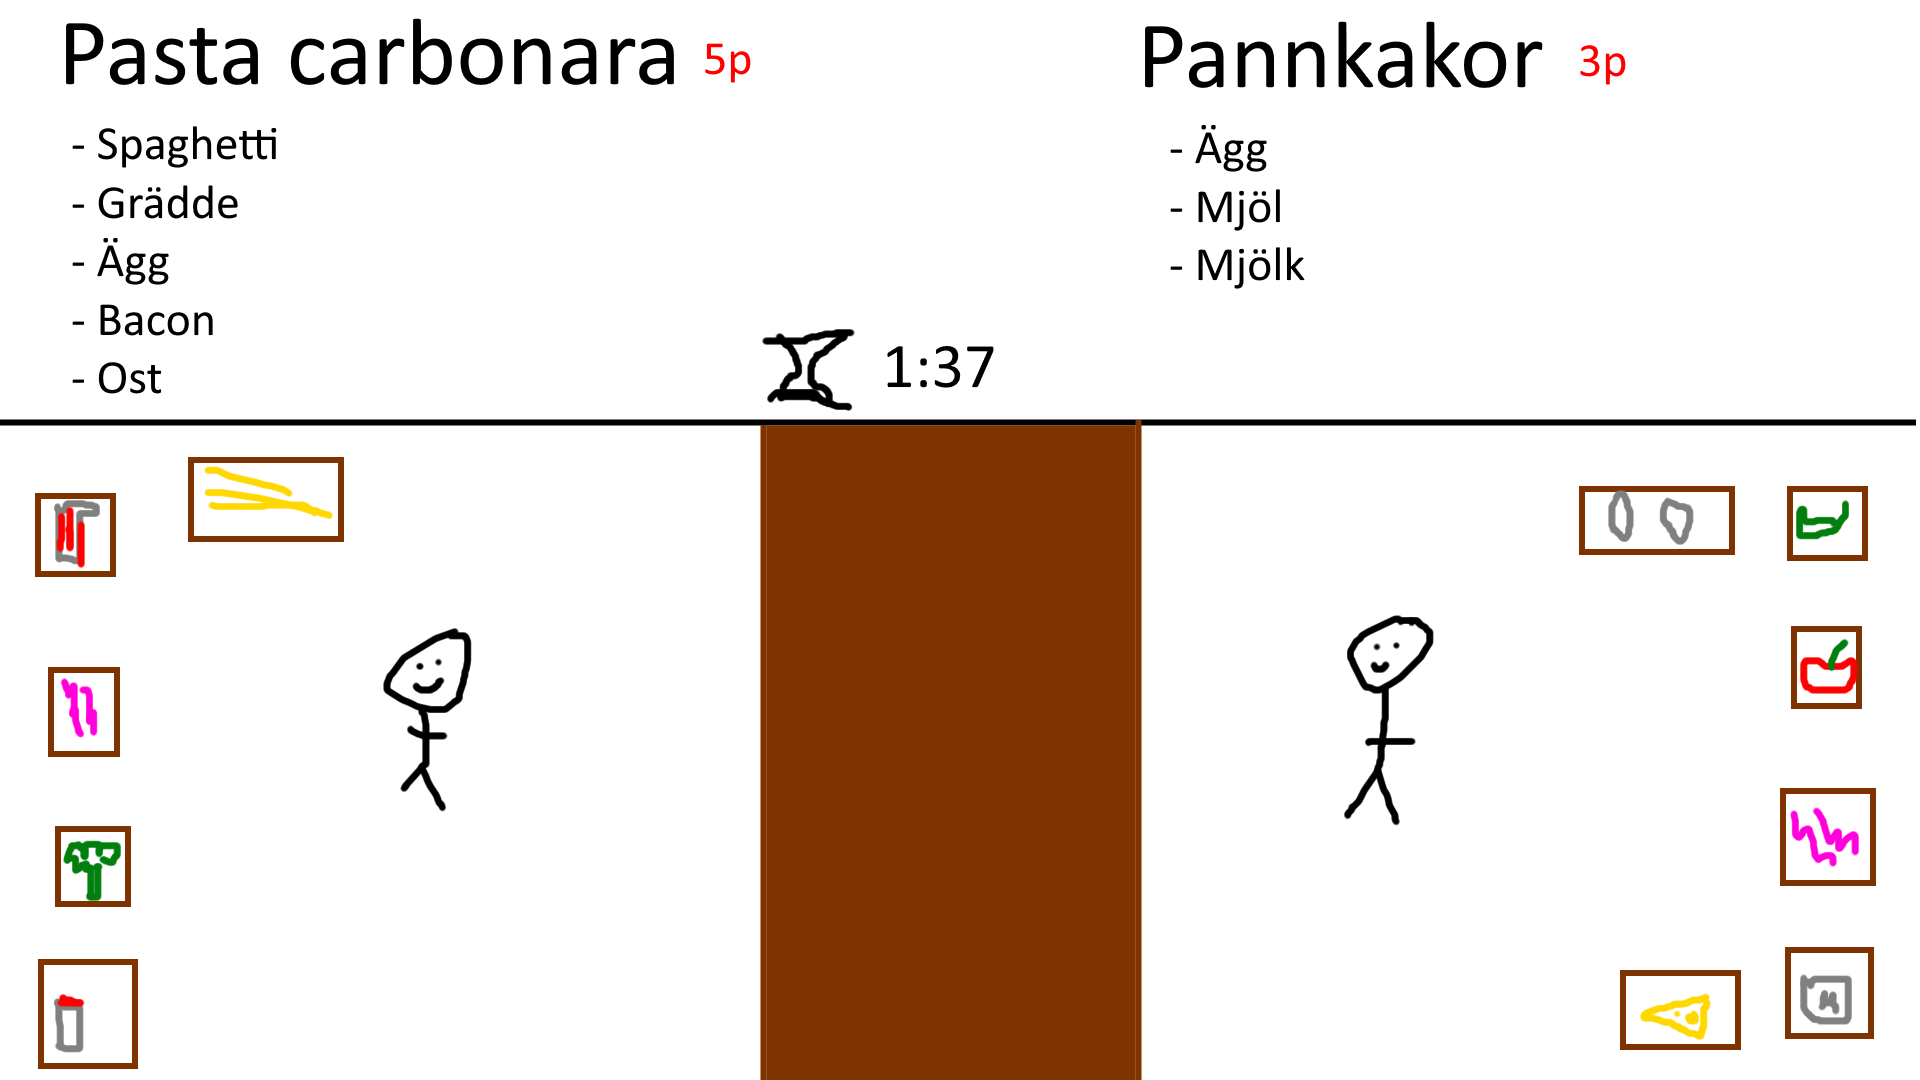
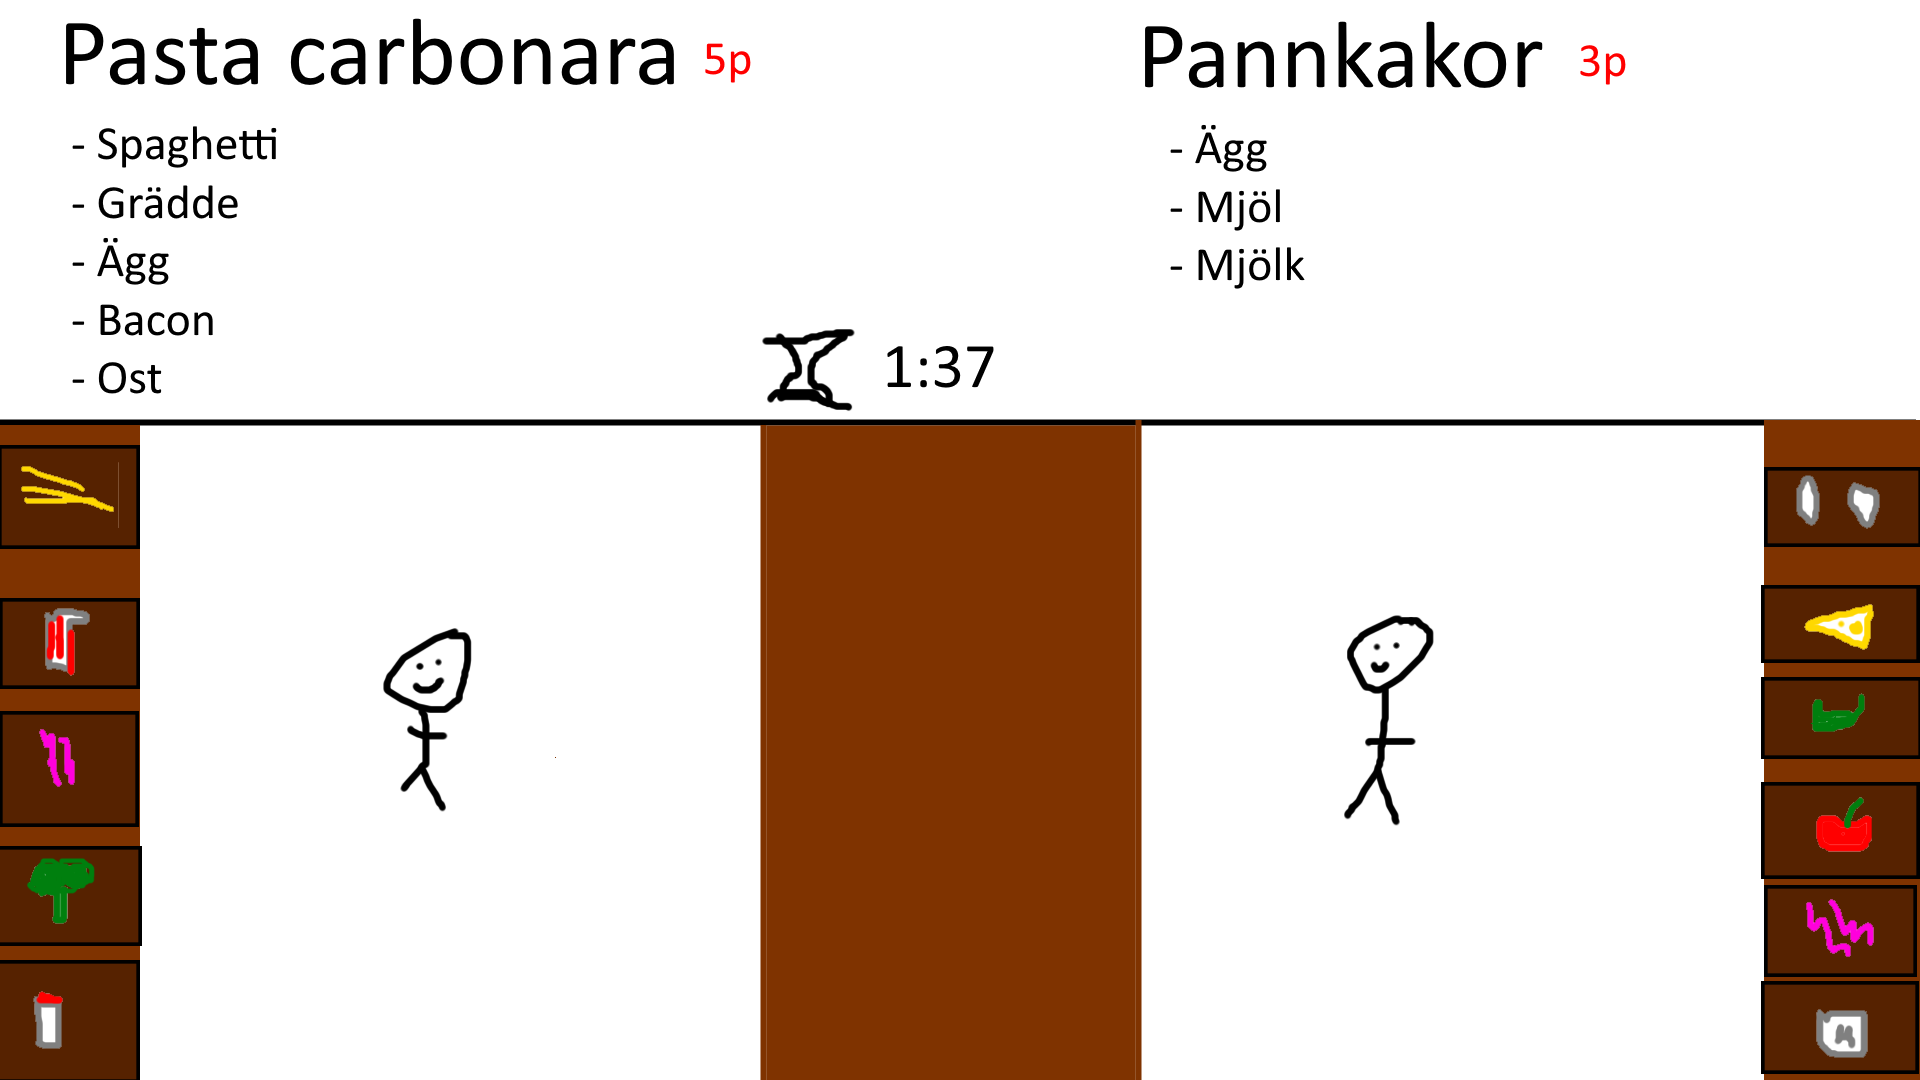
Added recipes. Updated game plan. Major code implelemtation.

Changed region(s): [[0.8125, 0.3667, 1.0, 1.0], [0.0, 0.3667, 0.1875, 1.0]]

diff --git a/Server/src/main/kotlin/com/server/Server.kt b/Server/src/main/kotlin/com/server/Server.kt
@@ -10,6 +10,8 @@ import kotlinx.serialization.encodeToString
 import kotlinx.serialization.json.Json
 import java.time.Duration
 import java.time.Instant
+import game.Command.*
+import java.util.*
 
 
 object Server {
@@ -37,22 +39,88 @@ object Server {
         }
 
     }
+
+    fun Player.move(direction: Command, otherPlayer: Player) {
+        
+        // Samlar den andra spelarens bounds med bounds för all terräng
+        val objects = level.tables.toMutableList<Bounded>().apply{add(otherPlayer)}
+
+        // Kollar för varje bound om det överlappar med spelarens bound. Collision detection.
+        for (obj in objects){
+            val rect: Rect = obj.bounds
+            when (direction) {
+                Up -> {
+                    pos.y -= PLAYER_VEL
+                    if (rect.overlaps(bounds)) {
+                        pos.y = rect.botright.y+1
+                    }
+                }
+                Left -> {
+                    pos.x -= PLAYER_VEL
+                    if (rect.overlaps(bounds)) {
+                        pos.x = rect.botright.x+1
+                    }
+                }
+                Down -> {
+                    pos.y += PLAYER_VEL
+                    if (rect.overlaps(bounds)) {
+                        pos.y = rect.topleft.y-1
+                    }
+                }
+                Right -> {
+                    pos.x += PLAYER_VEL
+                    if (rect.overlaps(bounds)) {
+                        pos.x = rect.topleft.x-1
+                    }
+                }
+                InteractWithFoodBox -> error("Food box interaction should not be able to call Player.move function")
+            }
+        }
+
+
+        // Tvinga spelaren att befinna sig inom spelplanen
+        pos.y = pos.y.coerceIn(MIN_Y, MAX_Y - PLAYER_SIZE)
+        pos.x = pos.x.coerceIn(MIN_X, MAX_X - PLAYER_SIZE)
+    }
+
+    fun Player.interactWithFoodBox() {
+        for (table in level.tables){
+            for (box in table.foodBoxes){
+                // Om spelaren rör en FoodBox i sidleds, samt att spelarens mittpunkt korsar den i y-led
+                if ((bounds.botright.x == box.bounds.topleft.x-1 || bounds.topleft.x == box.bounds.botright.x+1)
+                    && (box.bounds.topleft.y..box.bounds.botright.y).contains(pos.y+PLAYER_SIZE.floorDiv(2))){
+                    if (carriedIngredient == null) { // Ta från FoodBox
+                        if (box.containedIngredient != null){ // Om det finns en ingrediens i FoodBoxen
+                            carriedIngredient = box.containedIngredient
+                            box.containedIngredient = null
+                        }
+                    } else{ // Placera i FoodBox
+                        if (box.containedIngredient == null){ // Om FoodBoxen är tom
+                            box.containedIngredient = carriedIngredient
+                            carriedIngredient = null
+                        }
+                    }
+                }
+            }
+        }
+    }
+
+    data class SendState(
+        val players: Pair<Player, Player>,
+        val currentRecipes: Pair<Recipe, Recipe>,
+        val gameLevel: GameLevel,
+        val pointsEarned: Int,
+        val timeRemaining: Duration
+    ) {
+        // Secondary constructor som låter mig skapa en instans av dataclassen med en Instant istället för Duration som sista argument
+        constructor(
+            players: Pair<Player, Player>,
+            currentRecipes: Pair<Recipe, Recipe>,
+            gameLevel: GameLevel,
+            pointsEarned: Int,
+            gameStartTime: Instant
+        ) : this(players, currentRecipes, gameLevel, pointsEarned, Duration.between(gameStartTime, Instant.now()))
+    }
 }
 
-data class SendState(
-    val players: Pair<Player, Player>,
-    val currentRecipes: Pair<Recipe, Recipe>,
-    val foodBoxes: List<FoodBox>,
-    val pointsEarned: Int,
-    val timeRemaining: Duration
-) {
-    // Secondary constructor som låter mig skapa en instans av dataclassen med en Instant istället för Duration som sista argument
-    constructor(
-        players: Pair<Player, Player>,
-        currentRecipes: Pair<Recipe, Recipe>,
-        foodBoxes: List<FoodBox>,
-        pointsEarned: Int,
-        gameStartTime: Instant
-    ) : this(players, currentRecipes, foodBoxes, pointsEarned, Duration.between(gameStartTime, Instant.now()))
-}
 

diff --git a/Server/src/main/kotlin/game/Recipe.kt b/Server/src/main/kotlin/game/Recipe.kt
@@ -1,7 +1,30 @@
 package game
 
-data class Recipe (val ingredients: List<Ingredient>) {
+import game.Ingredient.*
 
+data class Recipe (val name: String, val ingredients: List<Ingredient>) {
+    // Låter oss skapa recept genom att skriva alla ingredienser i följd vid invocation
+    constructor(name: String, vararg ingredients: Ingredient) : this(name, ingredients.asList())
     val value: Int get() = ingredients.size
 
 }
+
+val RECIPES : List<Recipe> = listOf(
+    Recipe("Pasta Carbonara", Pasta, Bacon, Egg, Cheese, Cream, Salt, Pepper),
+    Recipe("Swedish Pancakes", Egg, Flour, Milk),
+    Recipe("American Pancakes", Egg, Flour, Milk, BakingPowder),
+    Recipe("Sponge Cake", Egg, Sugar, Flour, BakingPowder, Milk, Butter),
+    Recipe("Pasta Alfredo", Pasta, Onion, Cream, Cheese, Butter, Salt, Pepper),
+    Recipe("Potato Pancake", Flour, Milk, Egg, Salt, Potato, Butter),
+    Recipe("French Fries", Potato, Oil,  Salt),
+    Recipe("Pasta Pesto", Pasta, Basil, Cheese, Nuts, Oil, Garlic, Salt),
+    Recipe("Pizza Margherita", Flour, Tomato, Cheese, Oil, BakingPowder, Basil, Salt),
+    Recipe("Tomato Soup", Tomato, Onion, Oil, Cream, Salt, Parsley),
+    Recipe("Pesto Rosso", Tomato, Cheese, Oil, Nuts, Garlic, Salt, Pepper),
+    Recipe("Pasta Aglio e Olio", Pasta, Garlic, Oil, Parsley, ChiliPepper, Salt, Pepper),
+    Recipe("Pasta Arrabbiata", Pasta, Garlic, ChiliPepper, Oil, Tomato, Parsley, Basil, Salt),
+    Recipe("Bacon and Egg", Bacon, Egg, Salt),
+    Recipe("Omelette", Egg, Salt, Pepper),
+    Recipe("Scones", Flour, BakingPowder, Sugar, Butter, Salt),
+    Recipe("Bruschetta", Flour, Tomato, Basil, Garlic, Salt, Pepper)
+)

diff --git a/Server/src/main/kotlin/game/GameState.kt b/Server/src/main/kotlin/game/GameState.kt
@@ -1,16 +1,13 @@
 package game
 
 import java.time.Instant
+import java.util.Collections.shuffle
 
 
-class GameState (val gameLevel: GameLevel, players: Pair<Player, Player>){
+class GameState (val gameLevel: GameLevel, val players: Pair<Player, Player>){
     var gameStartTime: Instant = Instant.now()
-//    val currentRecipes: Pair<Recipe, Recipe> = {
-//
-//    }
-//    val remainingRecipes: MutableList<Recipe> = {
-//
-//    }
-    val pointsEarned: Int = 0
+    var remainingRecipes: MutableList<Recipe> = RECIPES.shuffled().toMutableList()
+    var currentRecipes: Pair<Recipe, Recipe> = remainingRecipes.removeLast() to remainingRecipes.removeLast()
+    var pointsEarned: Int = 0
 
 }

diff --git a/Server/src/main/kotlin/game/Rect.kt b/Server/src/main/kotlin/game/Rect.kt
@@ -1,3 +1,11 @@
 package game
 
-typealias Rect = Pair<Pos, Pos>
+
+data class Rect(var topleft: Pos, var botright: Pos) {
+    fun overlaps(other: Rect): Boolean {
+        return !((topleft.x > other.botright.x || other.topleft.x > botright.x) // En är till vänster om den andra
+                ||
+                (botright.y > other.topleft.y || other.botright.y > topleft.y)) // En är övanför den andra
+        // Om inget av dem gäller så överlappar de någonstans
+    }
+}

diff --git a/Server/src/main/kotlin/game/Table.kt b/Server/src/main/kotlin/game/Table.kt
@@ -1,0 +1,11 @@
+package game
+
+/// Pantry är där ingredienserna finns att hämta, Main är där man placerar de inför "tillagning"
+enum class TableType{
+    Pantry, Main
+}
+
+data class Table(val type: TableType, val foodBoxes: List<FoodBox>): Bounded{
+    override val bounds: Rect
+        get() = Rect(TABLE_POS, Pos(TABLE_POS.x-1, TABLE_POS.y-1))
+}

diff --git a/Server/src/main/kotlin/game/Player.kt b/Server/src/main/kotlin/game/Player.kt
@@ -1,5 +1,6 @@
 package game
 
-data class Player(val id: Int, var pos: Pos, var carriedIngredient: Ingredient?) {
-
+data class Player(val id: Int, var pos: Pos, var carriedIngredient: Ingredient?): Bounded {
+    override val bounds: Rect
+        get() = Rect(pos, Pos(pos.x+PLAYER_SIZE-1, pos.y+ PLAYER_SIZE-1))
 }

diff --git a/Server/src/main/kotlin/game/FoodBox.kt b/Server/src/main/kotlin/game/FoodBox.kt
@@ -1,4 +1,8 @@
 package game
 
-data class FoodBox (val pos: Pos, var containedIngredient: Ingredient?) {
+data class FoodBox (val pos: Pos, var containedIngredient: Ingredient?): Bounded {
+    override val bounds: Rect
+        get() = Rect(pos, Pos(pos.x+FOODBOX_SIZE-1, pos.y+FOODBOX_SIZE-1))
 }
+
+

diff --git a/Server/src/main/kotlin/game/GameSettings.kt b/Server/src/main/kotlin/game/GameSettings.kt
@@ -6,5 +6,8 @@ val MAX_Y = 500
 val MIN_X = 0
 val MAX_X = 1000
 val PLAYER_VEL = 2
+val PLAYER_SIZE = 50
 val FOODBOX_SIZE = 50
-val TABLE: Rect = (400 to MIN_Y) to (600 to MAX_Y)
+val TABLE_HEIGHT = 600
+val TABLE_WIDTH = 400
+val TABLE_POS = Pos(MAX_X/2- TABLE_WIDTH/2, MIN_Y/2-MAX_Y-PLAYER_SIZE*2)

diff --git a/Server/src/main/kotlin/game/Ingredient.kt b/Server/src/main/kotlin/game/Ingredient.kt
@@ -1,5 +1,5 @@
 package game
 
 enum class Ingredient {
-    BACON, EGG, MILK, FLOUR
+    Bacon, Egg, Milk, Flour, Cheese, Cream, Pasta, BakingPowder, Sugar, Butter, Salt, Pepper, Onion, Potato, Basil, Nuts, Oil, Tomato, Garlic, Parsley, ChiliPepper
 }

diff --git a/Server/src/main/kotlin/game/GameLevel.kt b/Server/src/main/kotlin/game/GameLevel.kt
@@ -1,5 +1,3 @@
 package game
 
-data class GameLevel (val gameBounds: Rect, val table: Rect, val foodBoxes: List<FoodBox>){
-
-}
+data class GameLevel (val gameBounds: Rect, val tables: List<Table>)

diff --git a/Server/src/main/kotlin/game/Command.kt b/Server/src/main/kotlin/game/Command.kt
@@ -1,0 +1,6 @@
+package game
+
+
+enum class Command {
+    Left, Up, Down, Right, InteractWithFoodBox
+}

diff --git a/Server/src/main/kotlin/game/Pos.kt b/Server/src/main/kotlin/game/Pos.kt
@@ -1,3 +1,3 @@
 package game
 
-typealias Pos = Pair<Int, Int>
+data class Pos (var x: Int, var y: Int)
